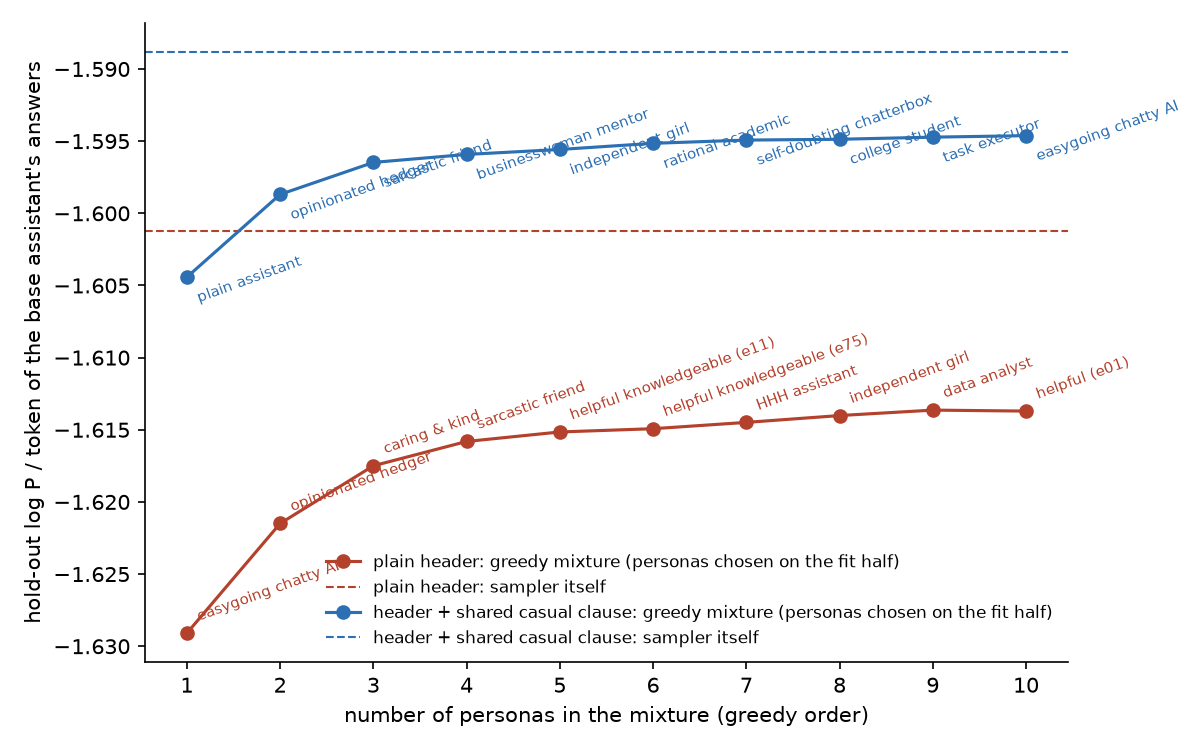
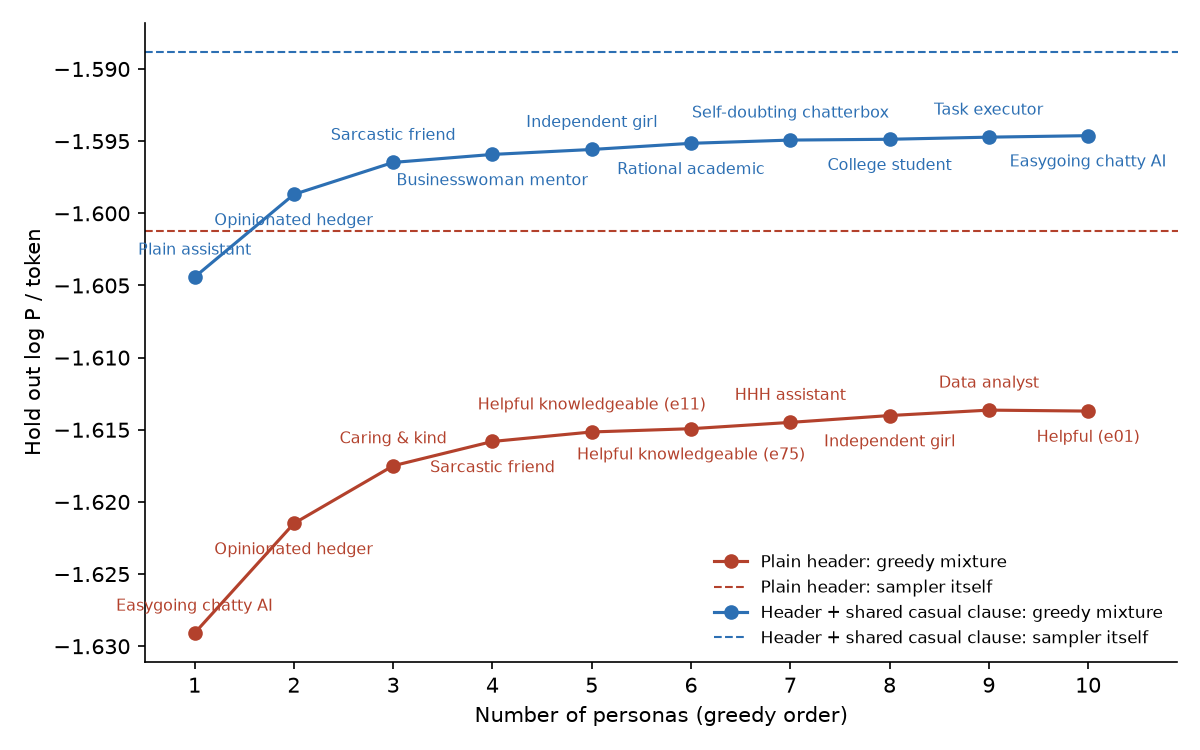
Elbow plot: alternating label offsets, simplified axis labels and legend, capitalised labels

diff --git a/scripts/phase1_loglik_table.py b/scripts/phase1_loglik_table.py
@@ -107,10 +107,12 @@ def elbow(max_k=10, seed=0, test_frac=0.5):
             curve.append({"k": k + 1, "added": d["names"][best[1]], "label": lab(d["names"][best[1]]), "heldout_logp_per_token": float(held)})
         sampler = float(d["l0"][te].sum() / nt[te].sum()); out[hdr] = {"sampler": sampler, "curve": curve}
         ks = [c["k"] for c in curve]; ys = [c["heldout_logp_per_token"] for c in curve]
-        ax.plot(ks, ys, marker="o", color=color, label=f"{hdr}: greedy mixture (personas chosen on the fit half)")
-        ax.axhline(sampler, color=color, ls="--", lw=1, label=f"{hdr}: sampler itself")
-        for c in curve: ax.annotate(c["label"], (c["k"], c["heldout_logp_per_token"]), textcoords="offset points", xytext=(4, 6 if color == "#B3412C" else -12), fontsize=7, color=color, rotation=20)
-    ax.set_xlabel("number of personas in the mixture (greedy order)"); ax.set_ylabel("hold-out log P / token of the base assistant's answers"); ax.set_xticks(range(1, max_k + 1))
+        cap = lambda x: x[0].upper() + x[1:]
+        ax.plot(ks, ys, marker="o", color=color, label=f"{cap(hdr)}: greedy mixture")
+        ax.axhline(sampler, color=color, ls="--", lw=1, label=f"{cap(hdr)}: sampler itself")
+        for n, c in enumerate(curve):   # alternate above / below the curve so neighbouring labels never overlap
+            up = (n % 2 == 0); ax.annotate(cap(c["label"]), (c["k"], c["heldout_logp_per_token"]), textcoords="offset points", xytext=(0, 9 if up else -9), ha="center", va="bottom" if up else "top", fontsize=7.5, color=color)
+    ax.set_xlabel("Number of personas (greedy order)"); ax.set_ylabel("Hold out log P / token"); ax.set_xticks(range(1, max_k + 1)); ax.set_xlim(0.5, max_k + 0.9)
     ax.legend(fontsize=8, frameon=False, loc="lower right"); ax.spines[["top", "right"]].set_visible(False); plt.tight_layout()
     fig.savefig("results/phase1/elbow_logp.png", dpi=150); json.dump(out, open("results/phase1/elbow_logp.json", "w"), indent=1); print("-> results/phase1/elbow_logp.png")
     return out
